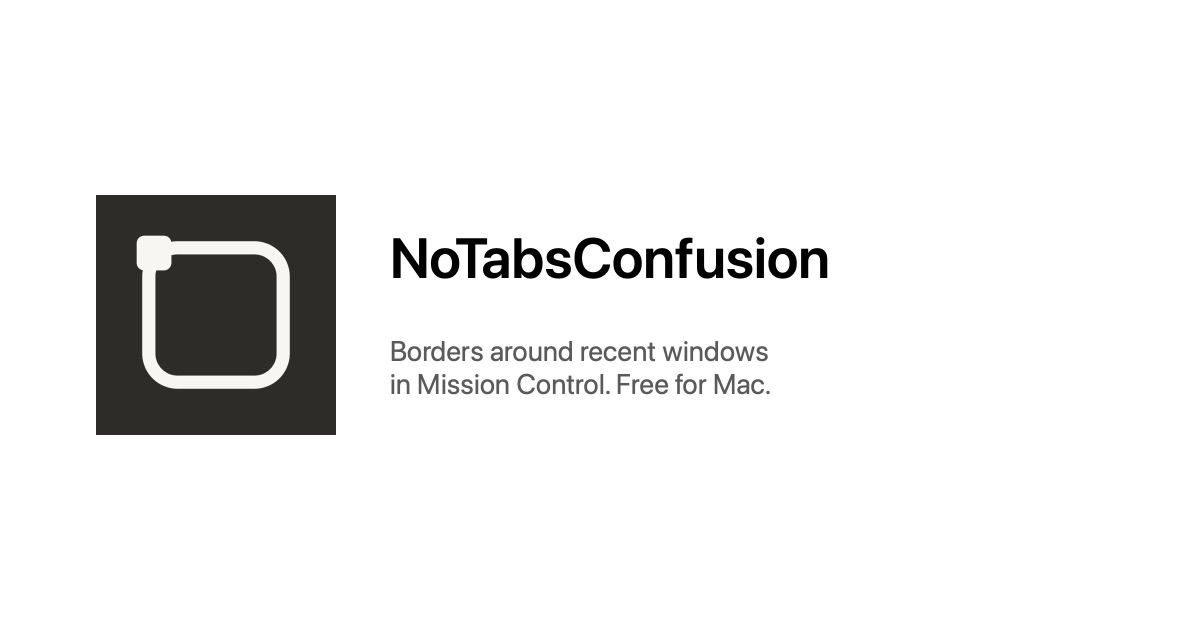
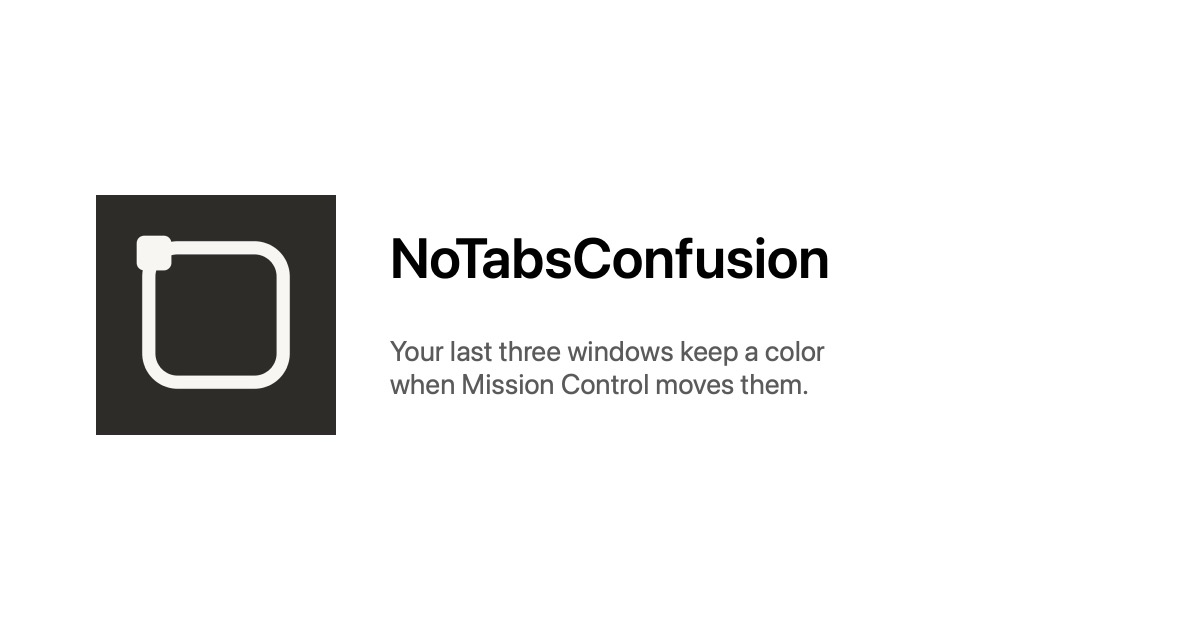
Explain why the three windows keep a color.

Changed region(s): [[0.3083, 0.5429, 0.7092, 0.6333]]

diff --git a/docs/index.html b/docs/index.html
@@ -3,22 +3,22 @@
 <head>
   <meta charset="utf-8">
   <meta name="viewport" content="width=device-width, initial-scale=1">
-  <title>NoTabsConfusion for Mac — highlight recent windows in Mission Control</title>
-  <meta name="description" content="NoTabsConfusion is a free menu bar app for Mac. In Mission Control it draws a colored border and the app icon around the windows you were just using. Signed download, not on the App Store.">
+  <title>NoTabsConfusion — your last three windows, in color</title>
+  <meta name="description" content="Four fingers up opens Mission Control, and the windows move every time. NoTabsConfusion keeps a set color on your three most recent windows so you can see where you came from. Free for Mac.">
   <link rel="canonical" href="https://incyashraj.github.io/NoTabsConfusion/">
   <meta name="author" content="Yashraj Pardeshi">
   <meta name="theme-color" content="#ffffff">
   <link rel="icon" href="favicon.png" type="image/png">
   <meta property="og:type" content="website">
   <meta property="og:title" content="NoTabsConfusion for Mac">
-  <meta property="og:description" content="Free menu bar app. Colored borders and app icons on the windows you were just using, shown while Mission Control is open.">
+  <meta property="og:description" content="Mission Control moves your windows every time you swipe. Your last three keep a set color, so you can see where you came from.">
   <meta property="og:url" content="https://incyashraj.github.io/NoTabsConfusion/">
   <meta property="og:image" content="https://incyashraj.github.io/NoTabsConfusion/og.jpg">
   <meta property="og:image:width" content="1200">
   <meta property="og:image:height" content="630">
   <meta name="twitter:card" content="summary_large_image">
   <meta name="twitter:title" content="NoTabsConfusion for Mac">
-  <meta name="twitter:description" content="Free menu bar app that outlines your recent windows in Mission Control.">
+  <meta name="twitter:description" content="Mission Control moves your windows every time you swipe. Your last three keep a set color.">
   <meta name="twitter:image" content="https://incyashraj.github.io/NoTabsConfusion/og.jpg">
   <script type="application/ld+json">
   {
@@ -40,7 +40,7 @@
       "name": "Yashraj Pardeshi",
       "url": "https://github.com/incyashraj"
     },
-    "description": "Menu bar app for Mac that draws a colored border and app icon around recent windows while Mission Control is open.",
+    "description": "Keeps a set color on your three most recent Mac windows in Mission Control, because the windows move every time you swipe.",
     "image": "https://incyashraj.github.io/NoTabsConfusion/icon.png"
   }
   </script>
@@ -91,17 +91,16 @@
   <main>
     <img src="icon.png" width="64" height="64" alt="NoTabsConfusion icon">
     <h1>NoTabsConfusion</h1>
-    <p>Free menu bar app for Mac. In Mission Control it draws a border around the windows you were just using, with each app’s icon. The menu calls it FocusBorder. It is not on the App Store.</p>
+    <p>Swipe up with four fingers and Mission Control shows every open window. Most apps are plain black or white, and the windows change place every time you swipe.</p>
+    <p>This keeps a set color on the three you used last, so you can see where you came from and where you were going.</p>
+    <ul>
+      <li>The one you just left: purple.</li>
+      <li>The one before that: amber.</li>
+      <li>The one before that: teal.</li>
+    </ul>
+    <p class="meta">Colors show only in Mission Control, and each window keeps its app icon. The menu bar name is FocusBorder. Free, and not on the App Store.</p>
     <p><a class="download" href="https://github.com/incyashraj/NoTabsConfusion/releases/latest/download/NoTabsConfusion-1.0.zip">Download NoTabsConfusion 1.0</a></p>
     <p class="meta">Apple silicon · macOS 26.2 or later · <a href="https://github.com/incyashraj/NoTabsConfusion">Source</a></p>
-
-    <h2>What you see</h2>
-    <ul>
-      <li>Most recent window: a purple-blue border and the app icon.</li>
-      <li>The window before that: an amber border.</li>
-      <li>One further back: a teal border.</li>
-    </ul>
-    <p class="meta">Borders stay hidden until you open Mission Control.</p>
 
     <h2>Install</h2>
     <ol>

diff --git a/README.md b/README.md
@@ -1,6 +1,14 @@
 # NoTabsConfusion
 
-Free menu bar app for Mac. In Mission Control it outlines the windows you were just using and shows each app icon. The menu bar name is FocusBorder. Not on the App Store.
+Swipe up with four fingers and Mission Control shows every open window. Most apps are plain black or white, and the windows change place every time you swipe.
+
+This keeps a set color on the three you used last, so you can see where you came from and where you were going.
+
+- The one you just left: purple
+- The one before that: amber
+- The one before that: teal
+
+Colors show only in Mission Control. The menu bar name is FocusBorder. Free, and not on the App Store.
 
 [Website](https://incyashraj.github.io/NoTabsConfusion/) · [Download 1.0](https://github.com/incyashraj/NoTabsConfusion/releases/latest/download/NoTabsConfusion-1.0.zip)
 
@@ -18,8 +26,6 @@ Free menu bar app for Mac. In Mission Control it outlines the windows you were j
 2. Open it. There is no Dock icon. Use the scope icon in the menu bar.
 3. Allow the access prompt so the app can see the front window. It also needs Accessibility access.
 4. If macOS blocks the first open, go to System Settings → Privacy & Security and click Open Anyway.
-
-The most recent window gets a purple-blue border, the one before it an amber border, and the third a teal border. Borders stay hidden until Mission Control is open.
 
 ## Privacy
 
